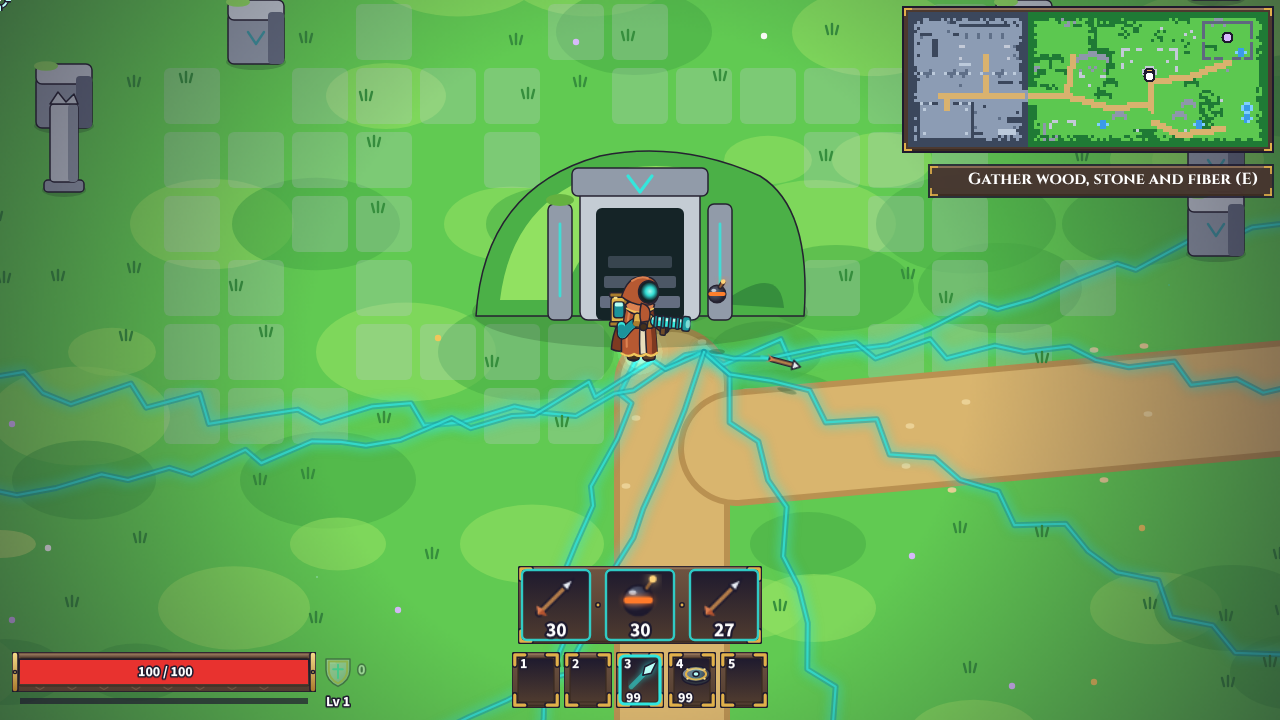
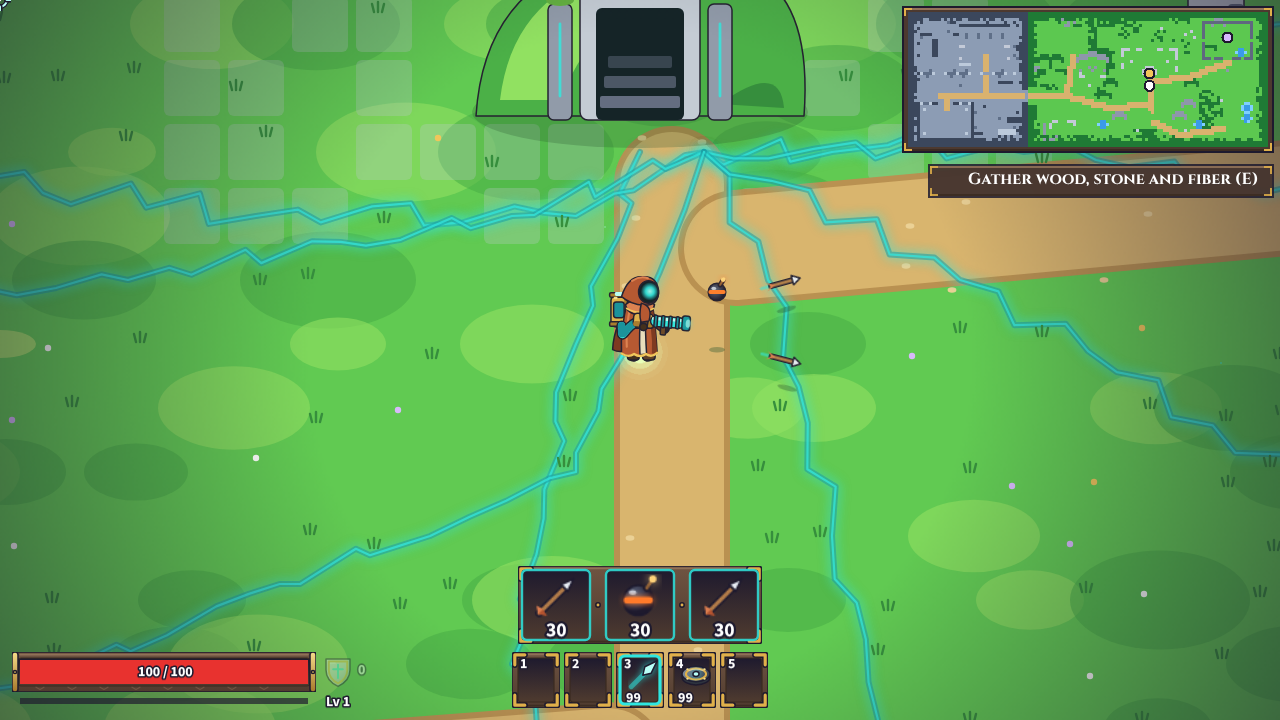
048 review: retake 024/04 south of the hall door so all three lanes show
Claude-Session: https://claude.ai/code/session_019ig8gw5L4yavYF6tvwkS5C

diff --git a/tests/e2e/spread.spec.ts b/tests/e2e/spread.spec.ts
@@ -118,9 +118,15 @@ test.describe('review screenshots (024)', () => {
 
     // The volley a few ticks out: one fan of three lanes (048), the arrows at ±15° and the bomb straight up the middle.
     // Out in the hall first, with the door's fade and the schematic banner played out (046's quietScreen).
+    // A few steps south of the hall's door, so its dome doesn't stop the left lane's arrow.
     await page.evaluate(() => {
-      window.__helpers?.toHall();
-      window.__GAME__?.step(1);
+      const g = window.__GAME__;
+      const h = window.__helpers;
+      if (!g || !h) throw new Error('no game');
+      h.toHall();
+      const s = g.step(1);
+      h.walkTo(s.player.x, s.player.y + 96);
+      g.step(1);
     });
     await cameraSettled(page);
     await quietScreen(page);
